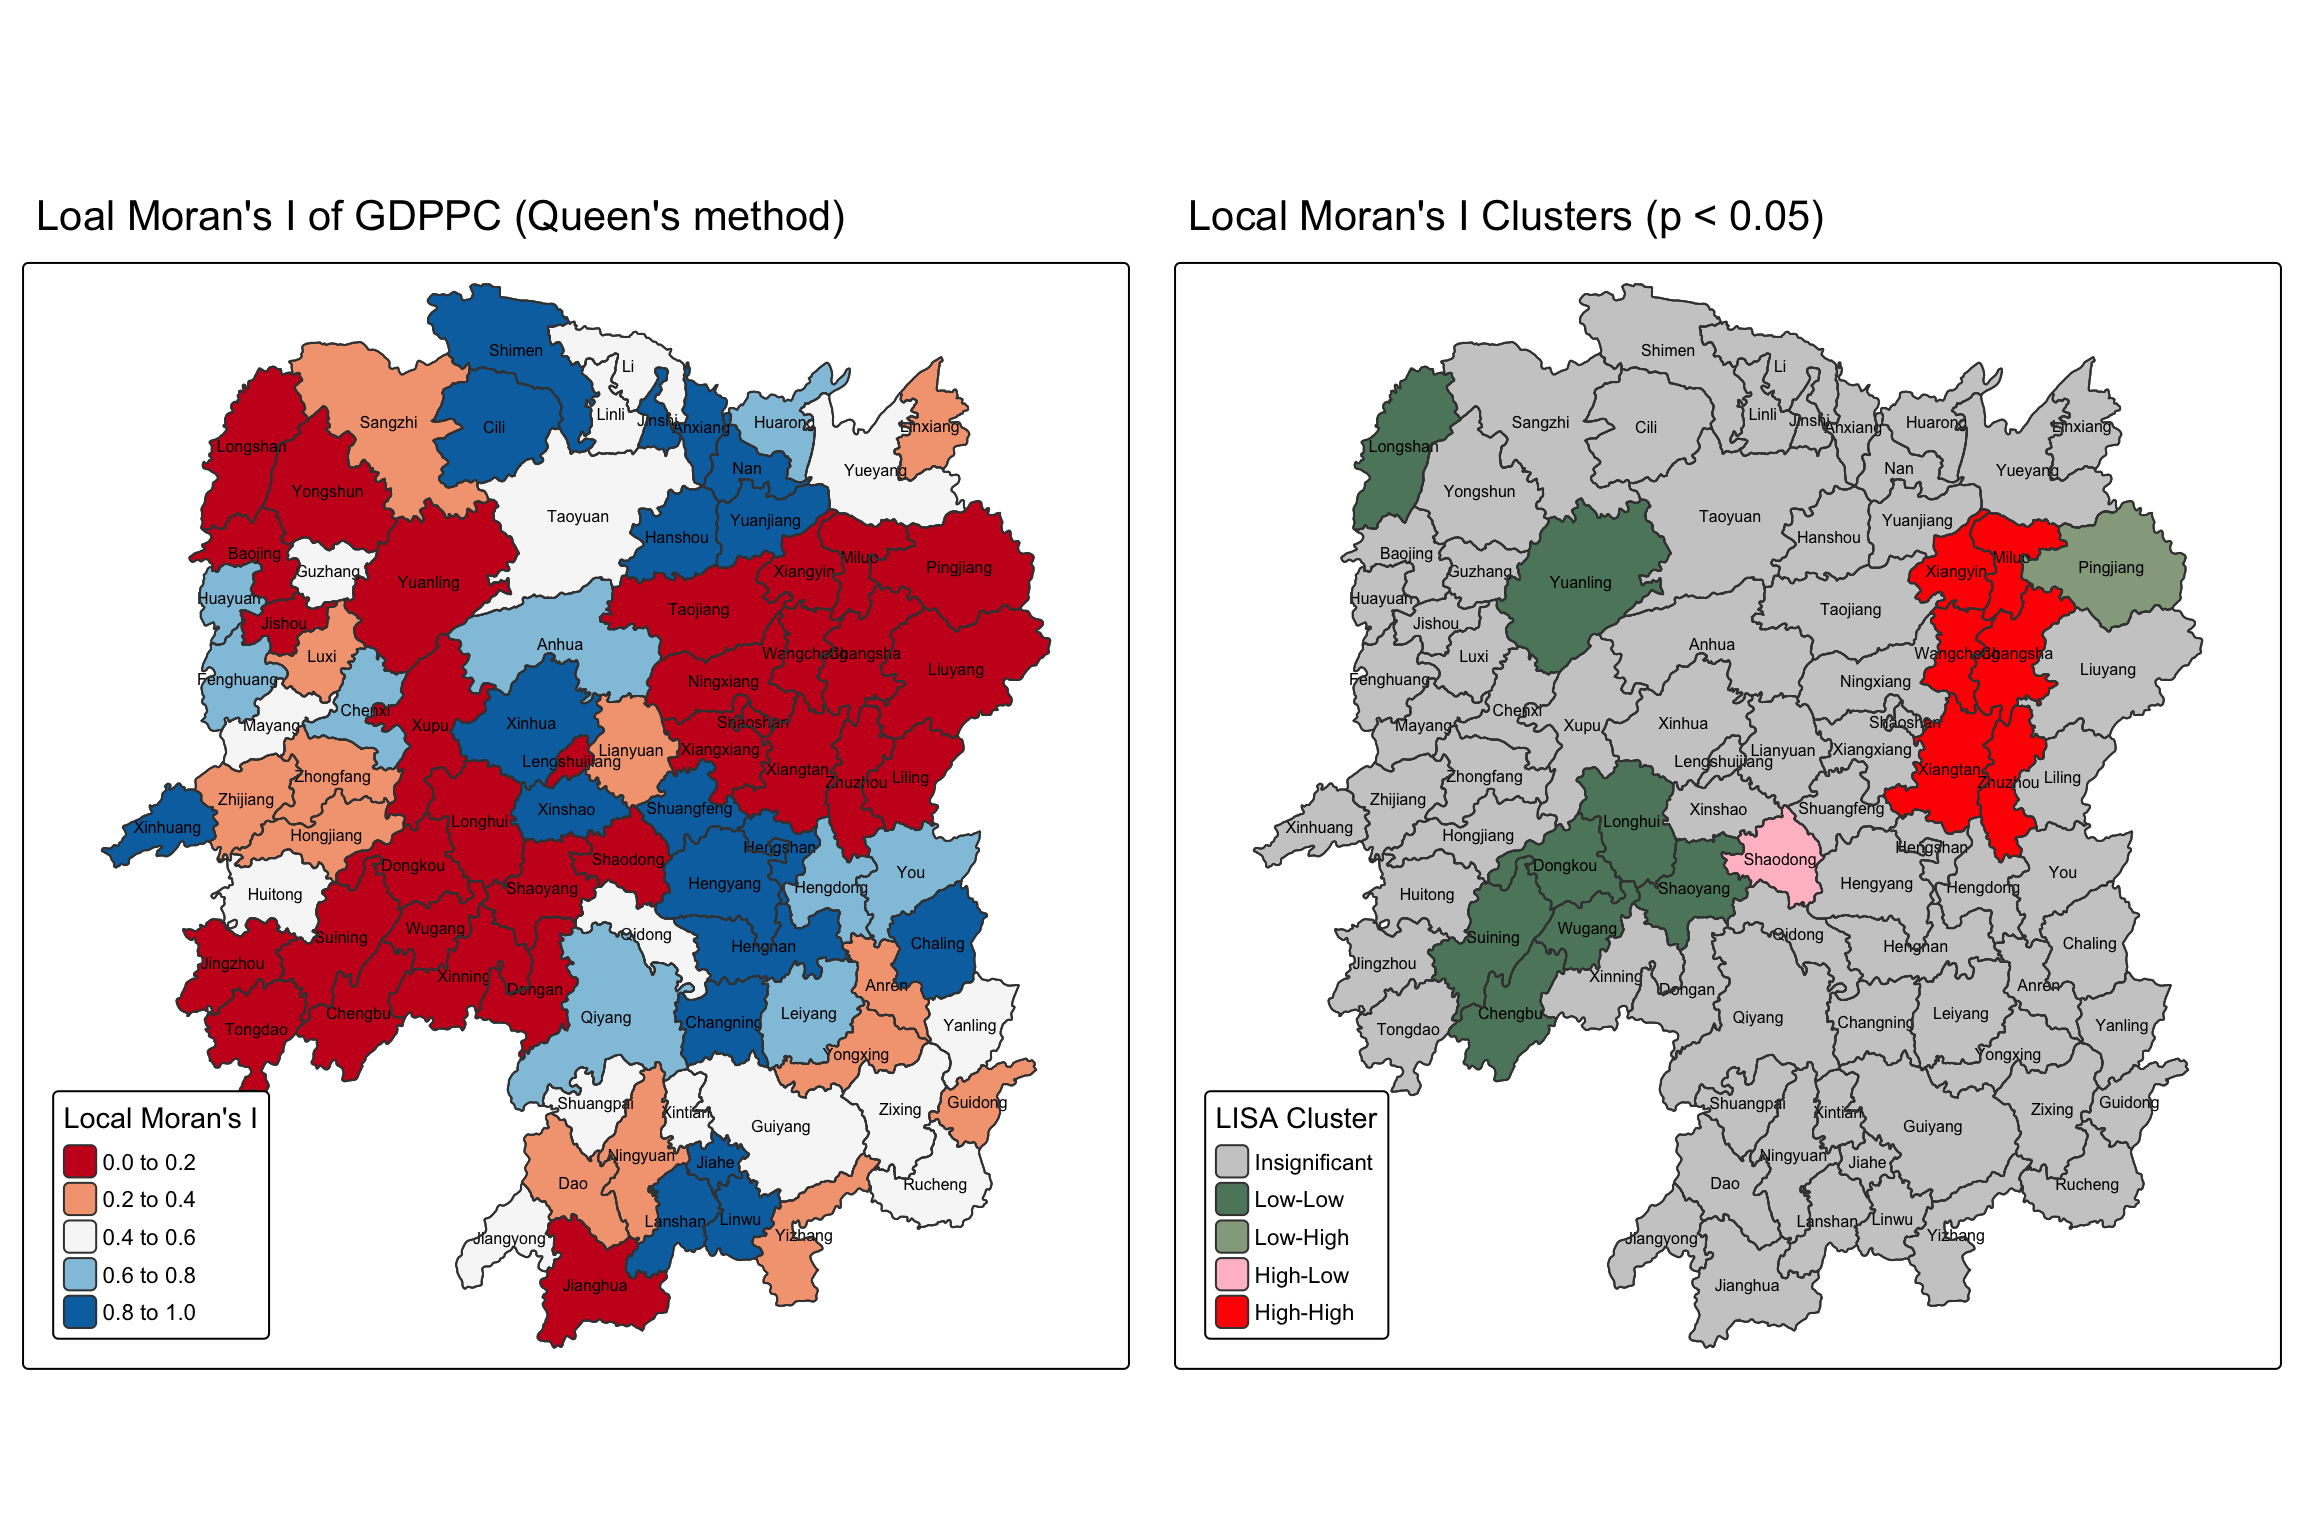
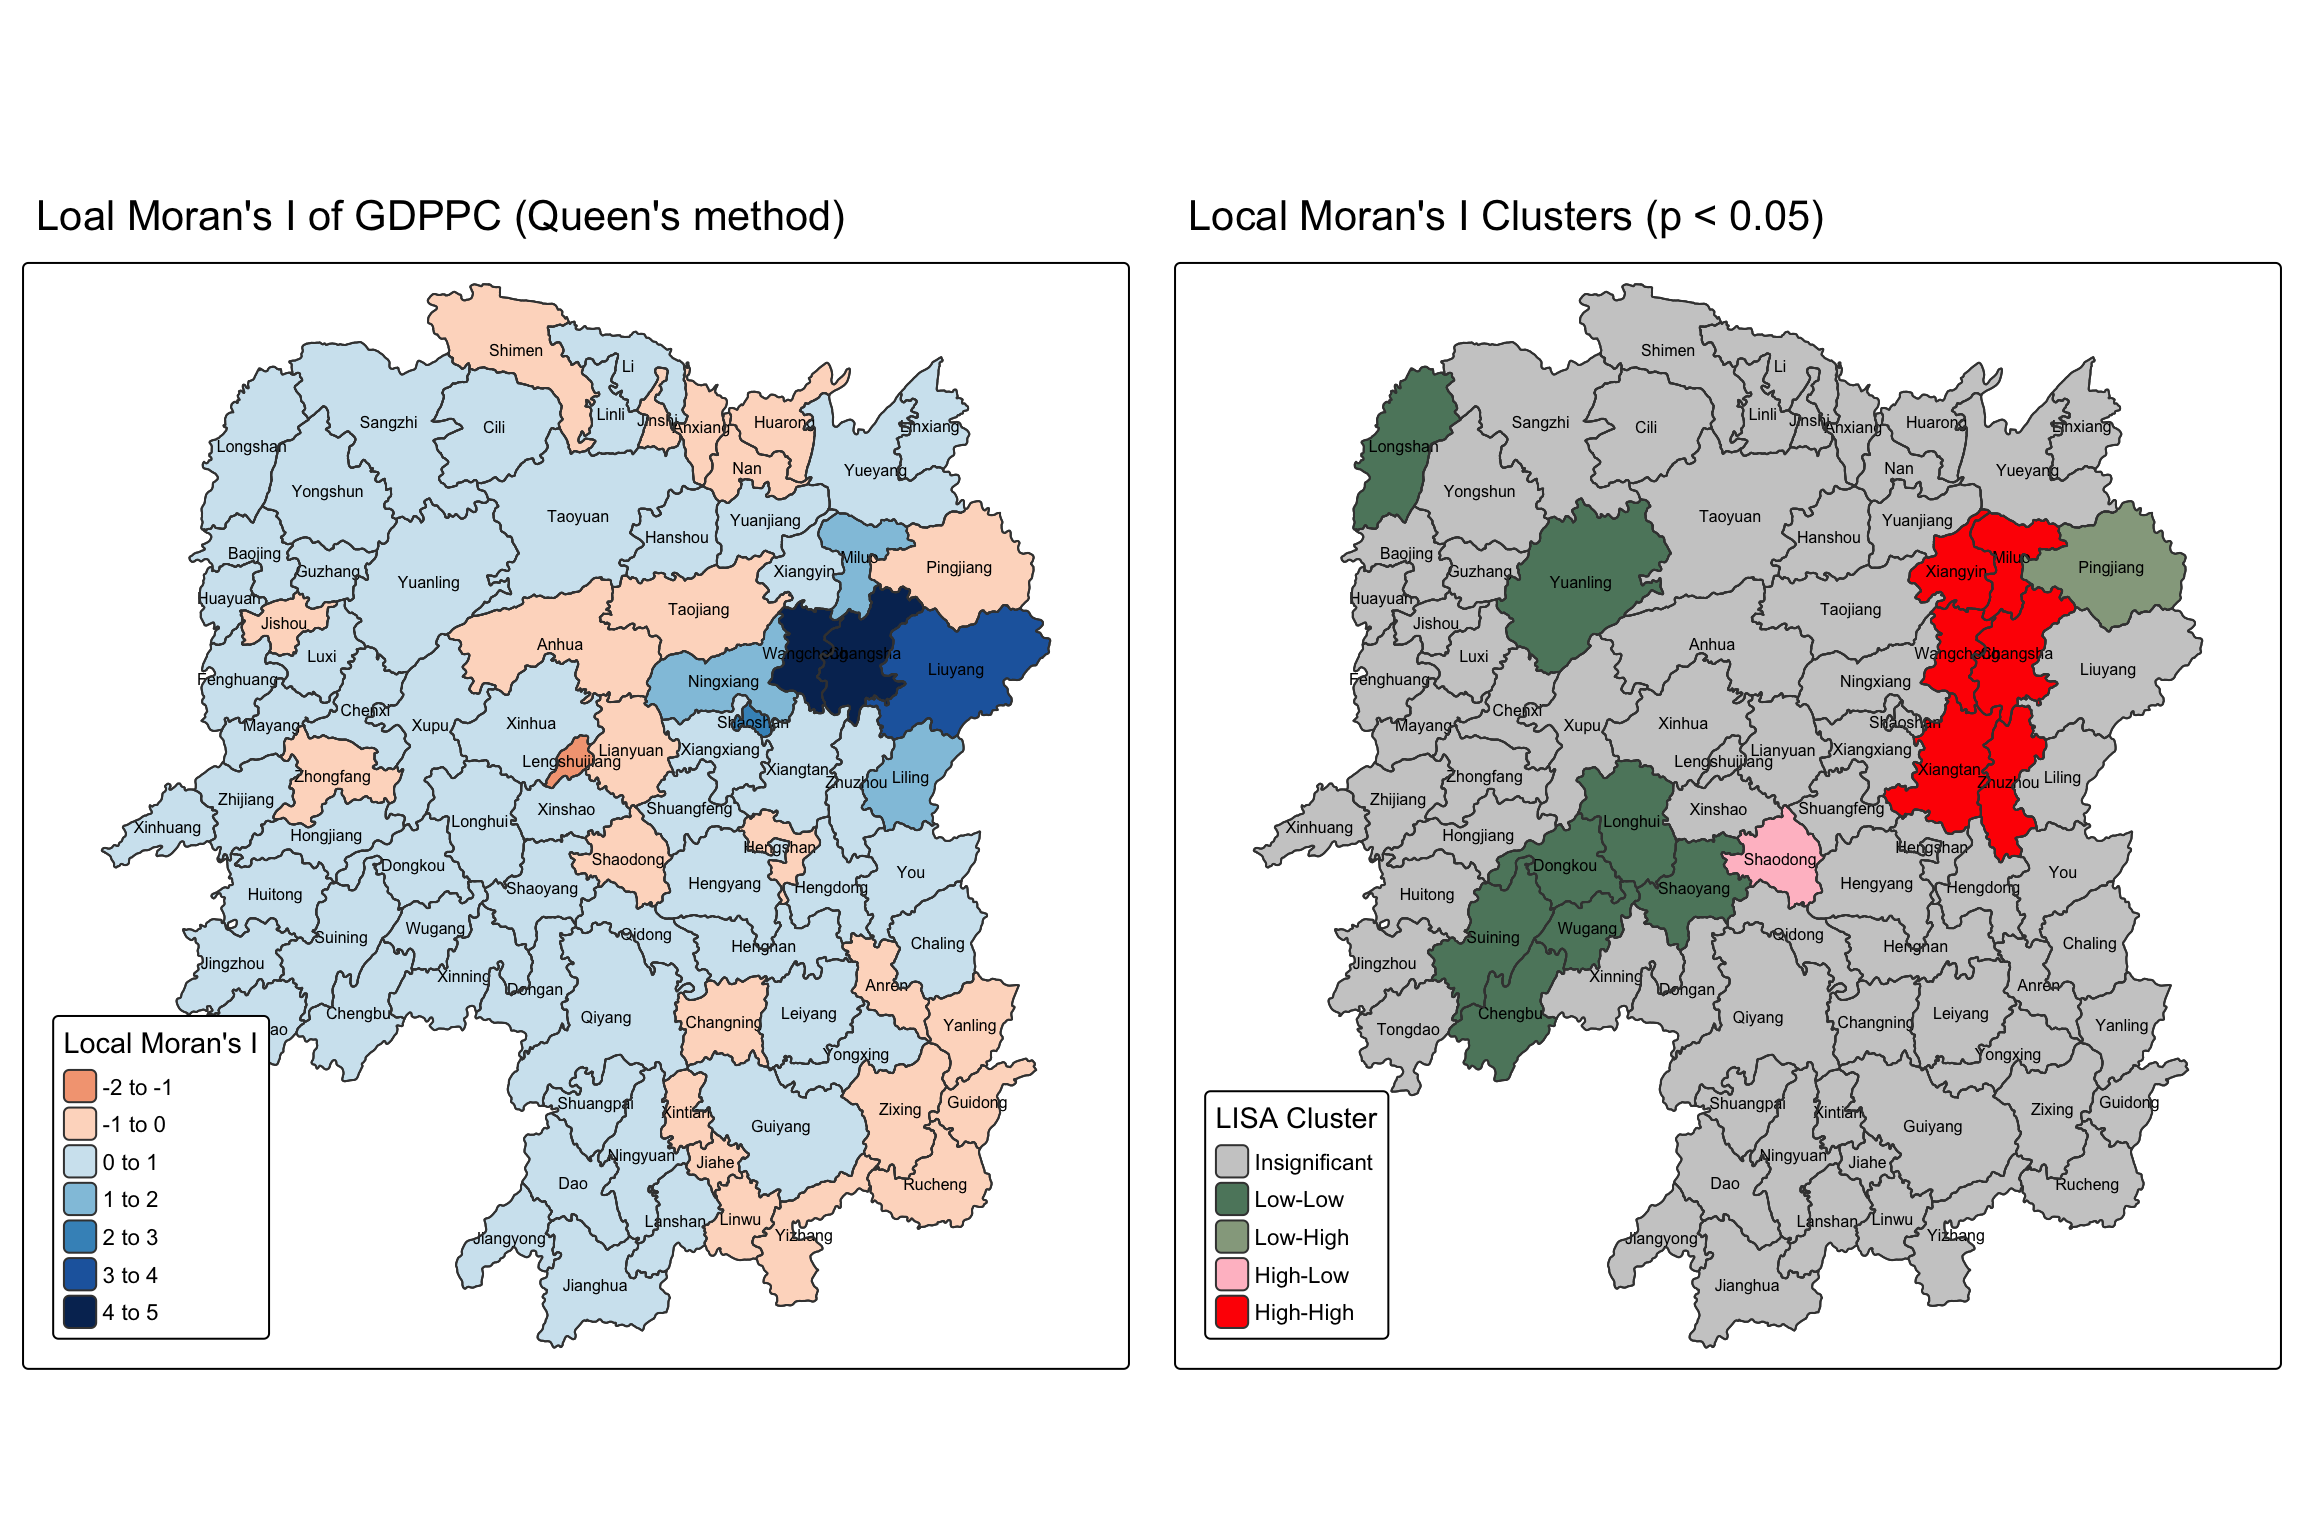
commit1008v3
update exercise 05b

Changed region(s): [[0.0, 0.1875, 0.4688, 0.875]]

diff --git a/_site/Hands-on_Ex/Hands-on_Ex05/Hands-on_Ex05b.html b/_site/Hands-on_Ex/Hands-on_Ex05/Hands-on_Ex05b.html
@@ -600,7 +600,7 @@ Projected CRS: WGS 84 / UTM zone 50N
 </div>
 </div>
 <section id="mapping-the-local-morans-i" class="level4">
-<h4 class="anchored" data-anchor-id="mapping-the-local-morans-i">4.3 Mapping the local Moran’s I</h4>
+<h4 class="anchored" data-anchor-id="mapping-the-local-morans-i">4.3.1 Mapping the local Moran’s I</h4>
 <div class="tabset-margin-container"></div><div class="panel-tabset">
 <ul class="nav nav-tabs" role="tablist"><li class="nav-item" role="presentation"><a class="nav-link active" id="tabset-1-1-tab" data-bs-toggle="tab" data-bs-target="#tabset-1-1" role="tab" aria-controls="tabset-1-1" aria-selected="true">Local Moran’s I values + p-values</a></li><li class="nav-item" role="presentation"><a class="nav-link" id="tabset-1-2-tab" data-bs-toggle="tab" data-bs-target="#tabset-1-2" role="tab" aria-controls="tabset-1-2" aria-selected="false">Local Moran’s I values</a></li><li class="nav-item" role="presentation"><a class="nav-link" id="tabset-1-3-tab" data-bs-toggle="tab" data-bs-target="#tabset-1-3" role="tab" aria-controls="tabset-1-3" aria-selected="false">Local Moran’s I p-values</a></li></ul>
 <div class="tab-content">
@@ -667,10 +667,12 @@ Projected CRS: WGS 84 / UTM zone 50N
 </div>
 </div>
 </div>
+<p><strong>Positive ii means:</strong> Location has similar values to its neighbors (clustering) <strong>Negative ii means:</strong> Location has different values from neighbors (spatial outlier)</p>
 </div>
 <div id="tabset-1-3" class="tab-pane" role="tabpanel" aria-labelledby="tabset-1-3-tab">
 <p>The choropleth shows there is evidence for both positive and negative Ii values. However, it is useful to consider the p-values for each of these values, as consider above.</p>
 <p>The code chunks below produce a choropleth map of Moran’s I p-values by using functions of <strong>tmap</strong> package.</p>
+<p>This is to show statistical significance based on Monte Carlo simulation. It is more accurate, especially for small sample sizes or skewed data.</p>
 <div class="cell" data-layout-align="center">
 <div class="sourceCode cell-code" id="cb15"><pre class="sourceCode r code-with-copy"><code class="sourceCode r"><span id="cb15-1"><a href="#cb15-1" aria-hidden="true" tabindex="-1"></a><span class="fu">tm_shape</span>(lisa) <span class="sc">+</span></span>
 <span id="cb15-2"><a href="#cb15-2" aria-hidden="true" tabindex="-1"></a>  <span class="fu">tm_polygons</span>(<span class="at">fill =</span> <span class="st">"p_ii_sim"</span>, </span>
@@ -682,7 +684,7 @@ Projected CRS: WGS 84 / UTM zone 50N
 <span id="cb15-8"><a href="#cb15-8" aria-hidden="true" tabindex="-1"></a>      <span class="at">position =</span> <span class="fu">tm_pos_out</span>())) <span class="sc">+</span> </span>
 <span id="cb15-9"><a href="#cb15-9" aria-hidden="true" tabindex="-1"></a>  <span class="fu">tm_text</span>(<span class="st">"NAME_3"</span>, <span class="at">size =</span> <span class="fl">0.5</span>) <span class="sc">+</span></span>
 <span id="cb15-10"><a href="#cb15-10" aria-hidden="true" tabindex="-1"></a>  <span class="fu">tm_borders</span>(<span class="at">fill_alpha =</span> <span class="fl">0.5</span>) <span class="sc">+</span></span>
-<span id="cb15-11"><a href="#cb15-11" aria-hidden="true" tabindex="-1"></a>  <span class="fu">tm_title</span>(<span class="st">"p-values of Loal Moran's I of GDPPC (Queen's method)"</span>)</span></code><button title="Copy to Clipboard" class="code-copy-button"><i class="bi"></i></button></pre></div>
+<span id="cb15-11"><a href="#cb15-11" aria-hidden="true" tabindex="-1"></a>  <span class="fu">tm_title</span>(<span class="st">"p-values of Local Moran's I of GDPPC (Queen's method)"</span>)</span></code><button title="Copy to Clipboard" class="code-copy-button"><i class="bi"></i></button></pre></div>
 <div class="cell-output-display">
 <div class="quarto-figure quarto-figure-center">
 <figure class="figure">
@@ -847,7 +849,7 @@ Projected CRS: WGS 84 / UTM zone 50N
 <p><strong>Note</strong></p>
 </div>
 <div class="markgoals-container">
-<p>A new class called Insignificant has been added for records whereby p_ii &gt; 0.05.</p>
+<p>A new class called Insignificant has been added for records whereby p_ii_sim &gt; 0.05.</p>
 </div>
 </div>
 <p><strong>Next we will plot the LISA map below:</strong></p>
@@ -883,7 +885,7 @@ Projected CRS: WGS 84 / UTM zone 50N
 <p>Below we will plot both the local Moran’s I values map and its corresponding p-values map next to each other.</p>
 <div class="cell" data-layout-align="center">
 <div class="sourceCode cell-code" id="cb24"><pre class="sourceCode r code-with-copy"><code class="sourceCode r"><span id="cb24-1"><a href="#cb24-1" aria-hidden="true" tabindex="-1"></a>ii.map <span class="ot">&lt;-</span> <span class="fu">tm_shape</span>(lisa) <span class="sc">+</span></span>
-<span id="cb24-2"><a href="#cb24-2" aria-hidden="true" tabindex="-1"></a>  <span class="fu">tm_polygons</span>(<span class="at">fill =</span> <span class="st">"p_ii_sim"</span>,</span>
+<span id="cb24-2"><a href="#cb24-2" aria-hidden="true" tabindex="-1"></a>  <span class="fu">tm_polygons</span>(<span class="at">fill =</span> <span class="st">"ii"</span>,</span>
 <span id="cb24-3"><a href="#cb24-3" aria-hidden="true" tabindex="-1"></a>              <span class="at">fill.scale =</span> <span class="fu">tm_scale_intervals</span>(</span>
 <span id="cb24-4"><a href="#cb24-4" aria-hidden="true" tabindex="-1"></a>                <span class="at">style =</span> <span class="st">"pretty"</span>,</span>
 <span id="cb24-5"><a href="#cb24-5" aria-hidden="true" tabindex="-1"></a>                <span class="at">n =</span> <span class="dv">5</span>,</span>
